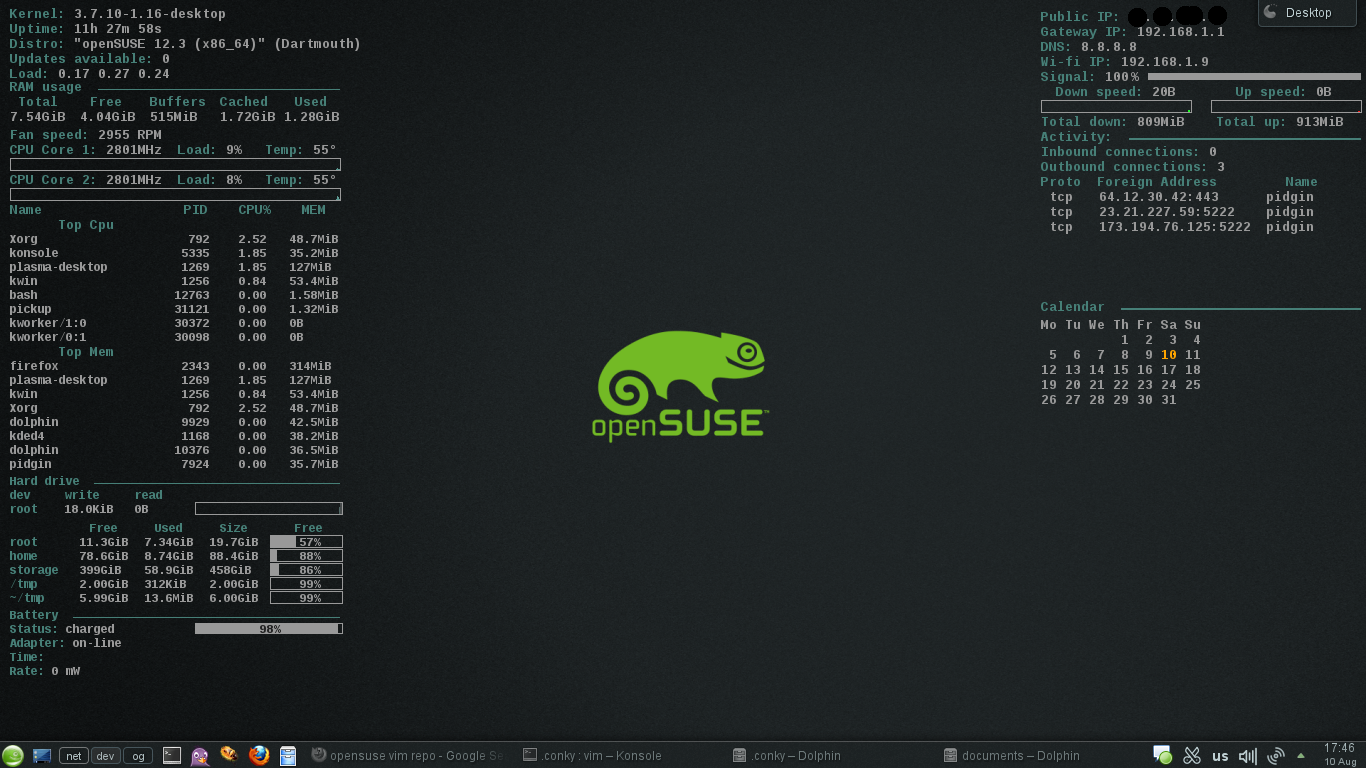
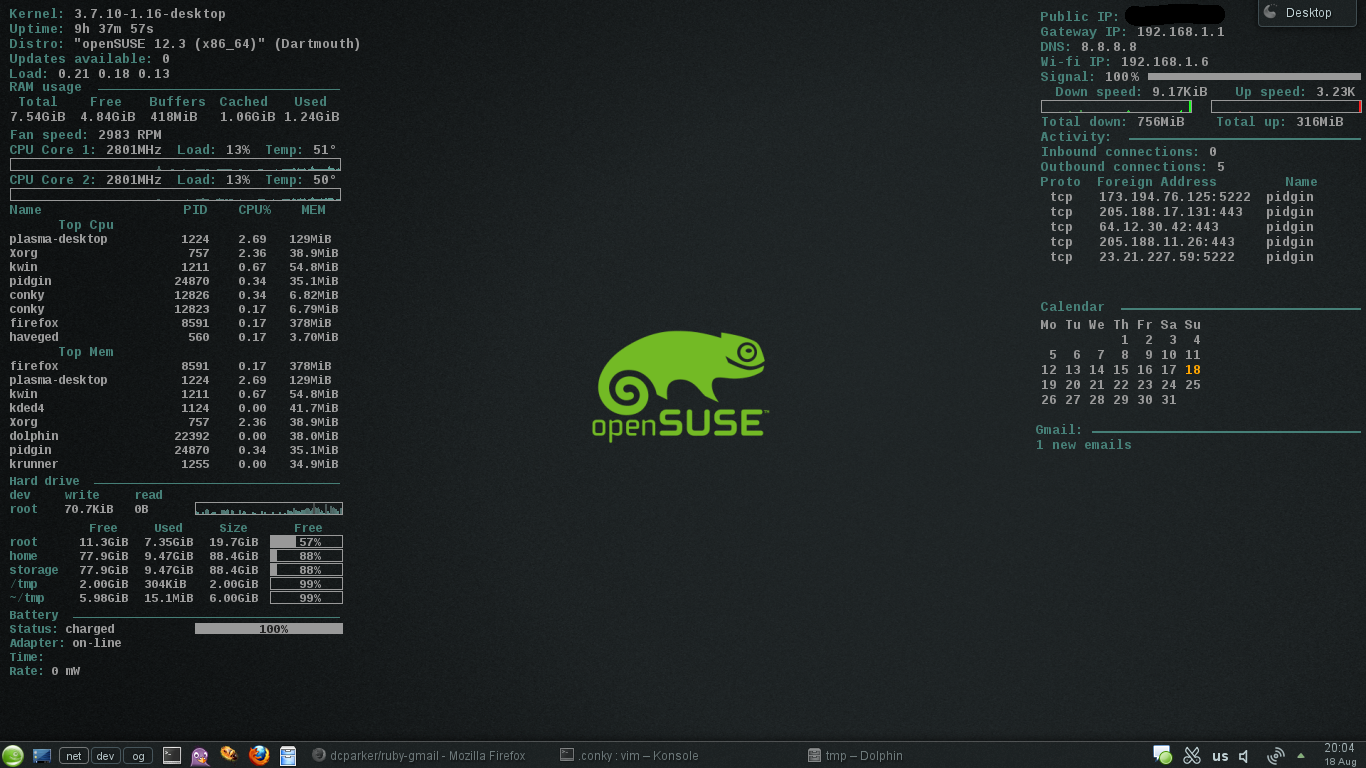
Gmail script

diff --git a/.conky/scripts/gmail.rb b/.conky/scripts/gmail.rb
@@ -1,0 +1,7 @@
+require 'rubygems'
+require 'gmail'
+require 'yaml'
+secrets = YAML.load_file(ENV['HOME']+'/.dotfiles/secrets.yml')
+gmail = Gmail.new(secrets['gmail']['login'], secrets['gmail']['password'])
+puts gmail.inbox.count(:unread)
+gmail.logout

diff --git a/README.md b/README.md
@@ -1,5 +1,13 @@
 my dotfiles  
 description: comming soon..
 
-##Conky:  
-Screenshot: <img src='https://github.com/alexbel/dotfiles/tree/master/.conky/1366x768.png' width='800' alt="resolution 1366x768">
+## Conky
+<img src='https://github.com/alexbel/dotfiles/tree/master/.conky/1366x768.png' width='800' alt="Screenshot">
+
+### Dependencies
+For gmail:  
+  - ruby >= 1.9.3
+
+gems:  
+  - ruby-gmail
+  - mime
